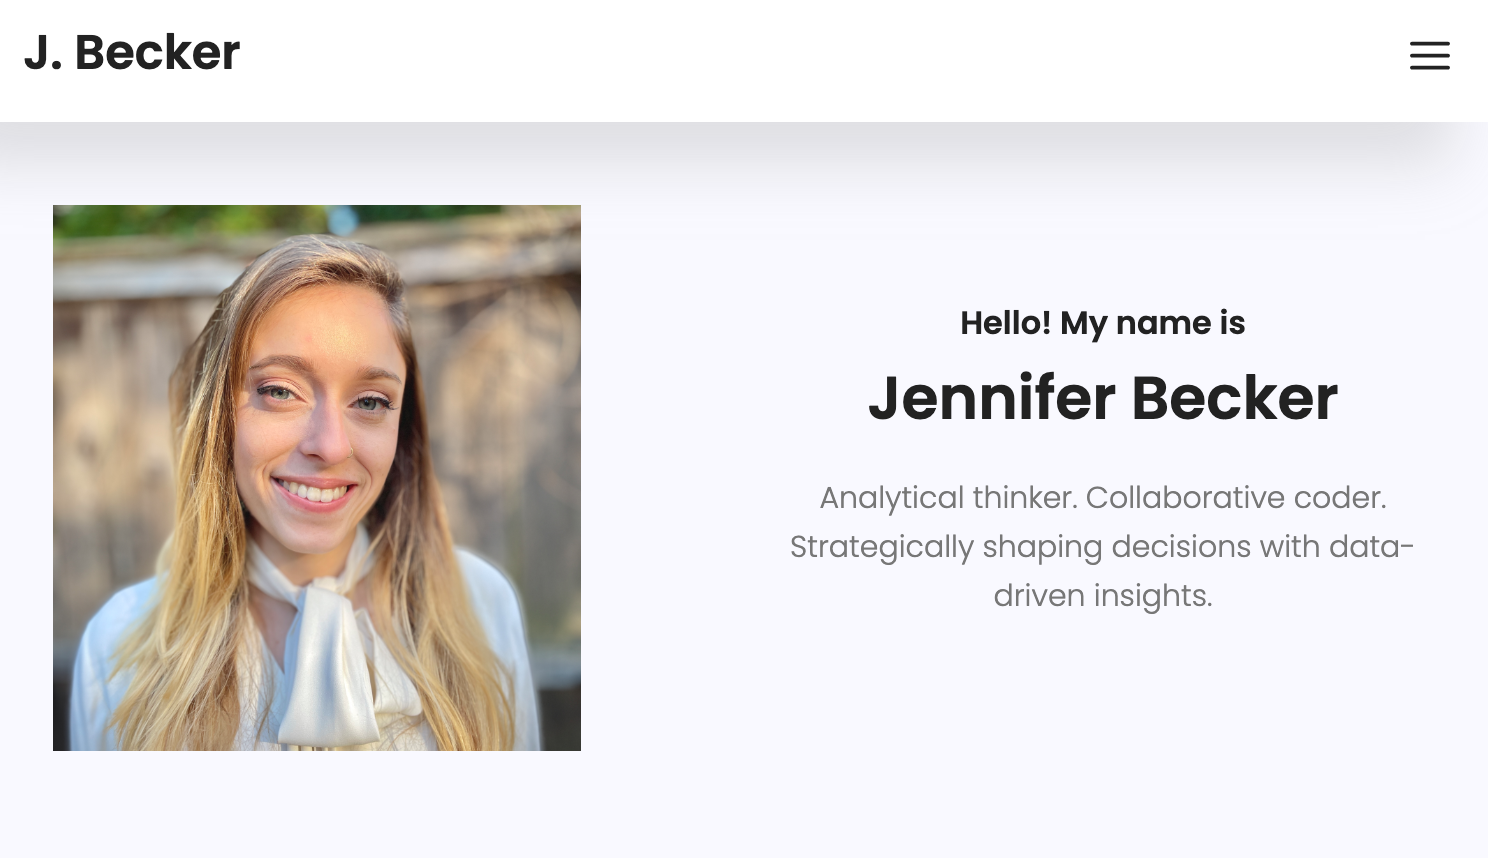
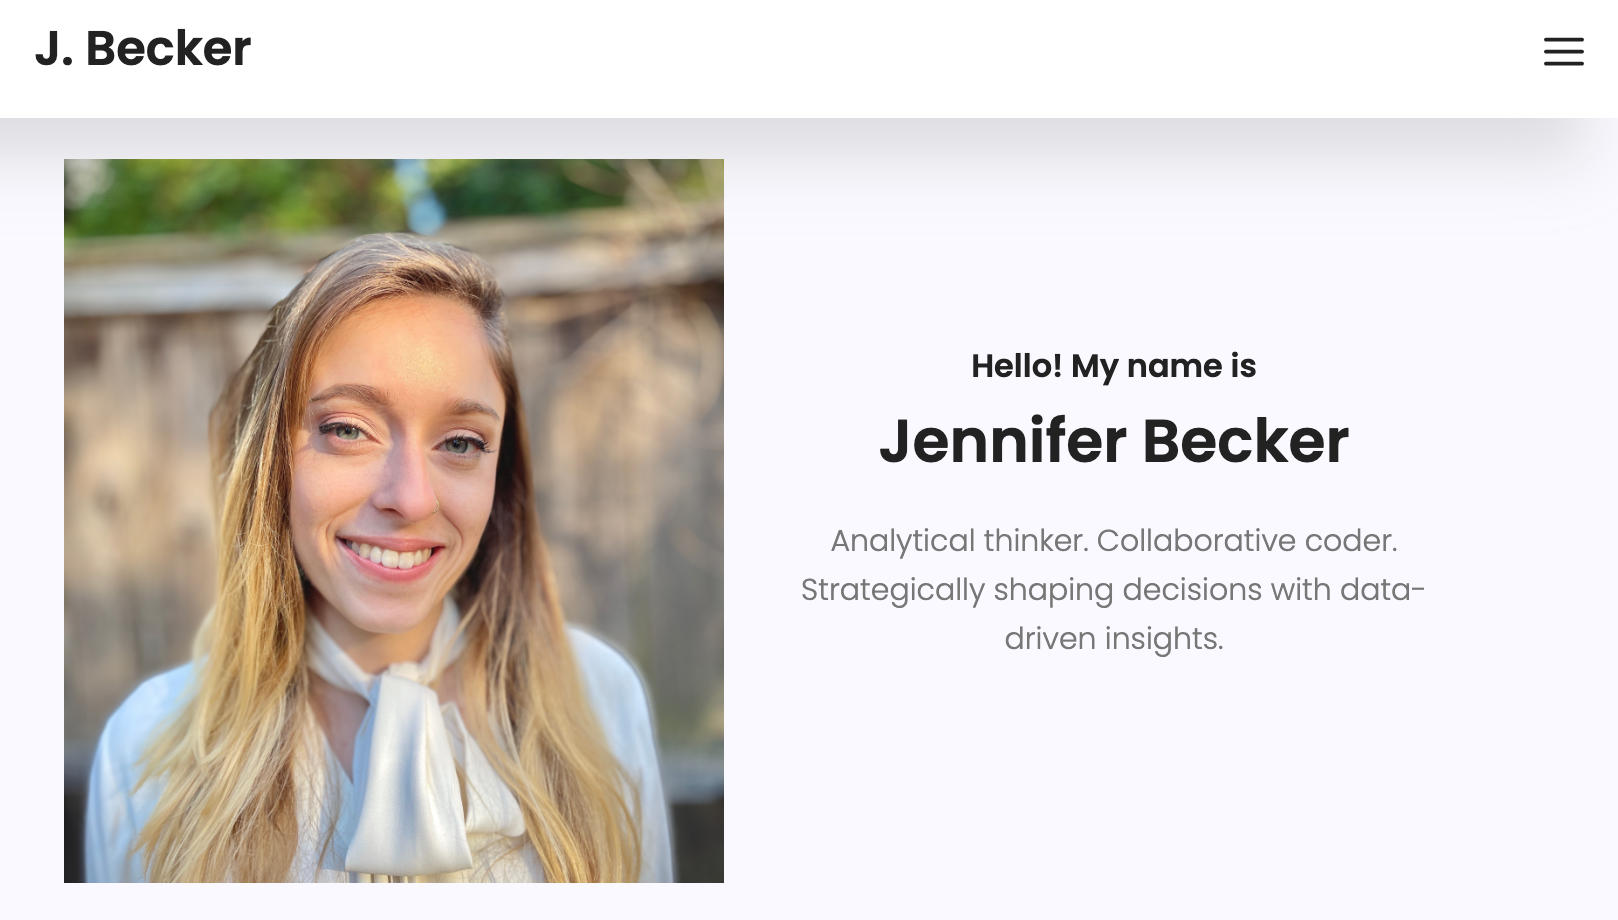
update photo

diff --git a/index.html b/index.html
@@ -62,7 +62,7 @@
 	
 		<div class="col-lg-6 col-md-6 col-xs-6 banner-left align-self-center">
 					
-							<img src="img/jennie.png" style="text-align:center;width:auto;height:auto;max-width:80%;">
+							<img src="img/jennie.png" style="text-align:center;width:auto;height:auto;max-width:100%;">
 						</div>
 
 					<div class="col-lg-6 col-md-6 col-xs-6 banner-right">
